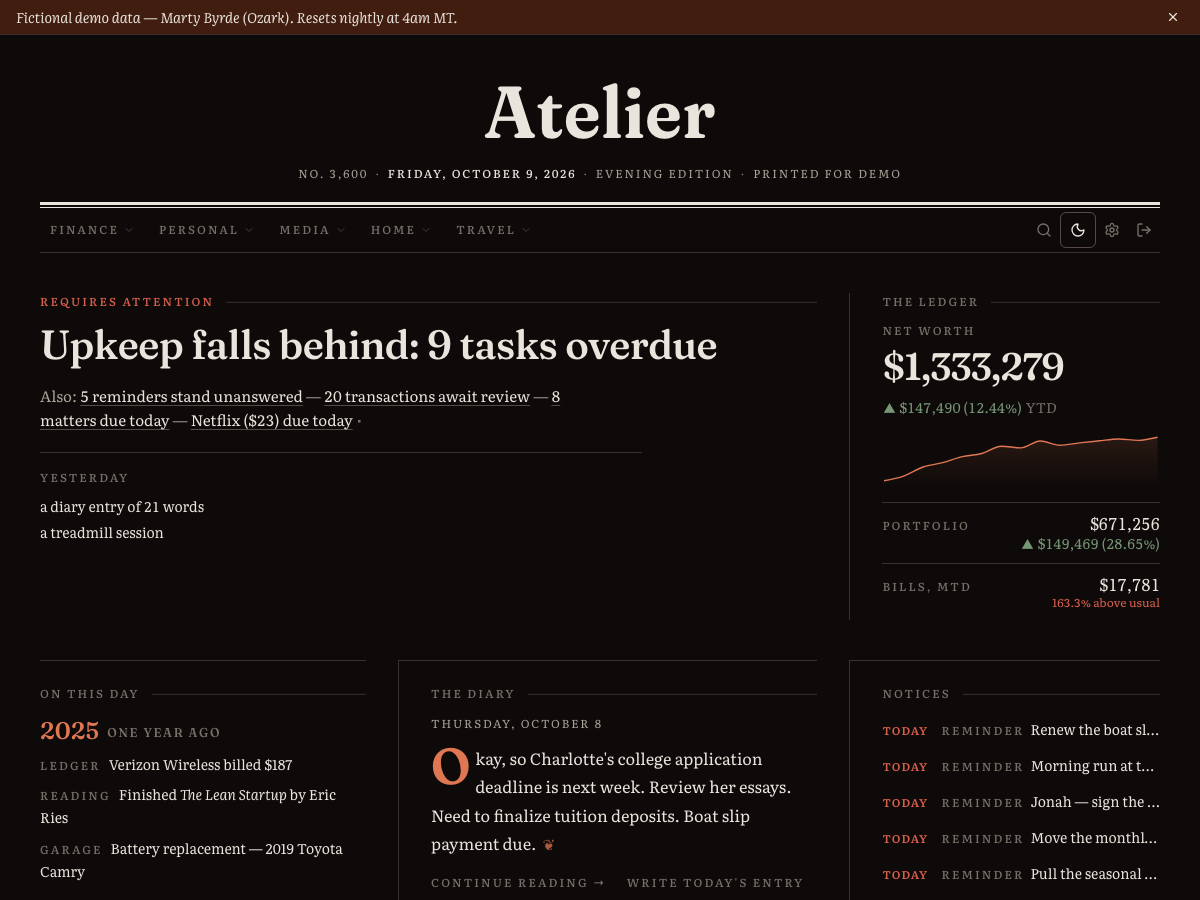
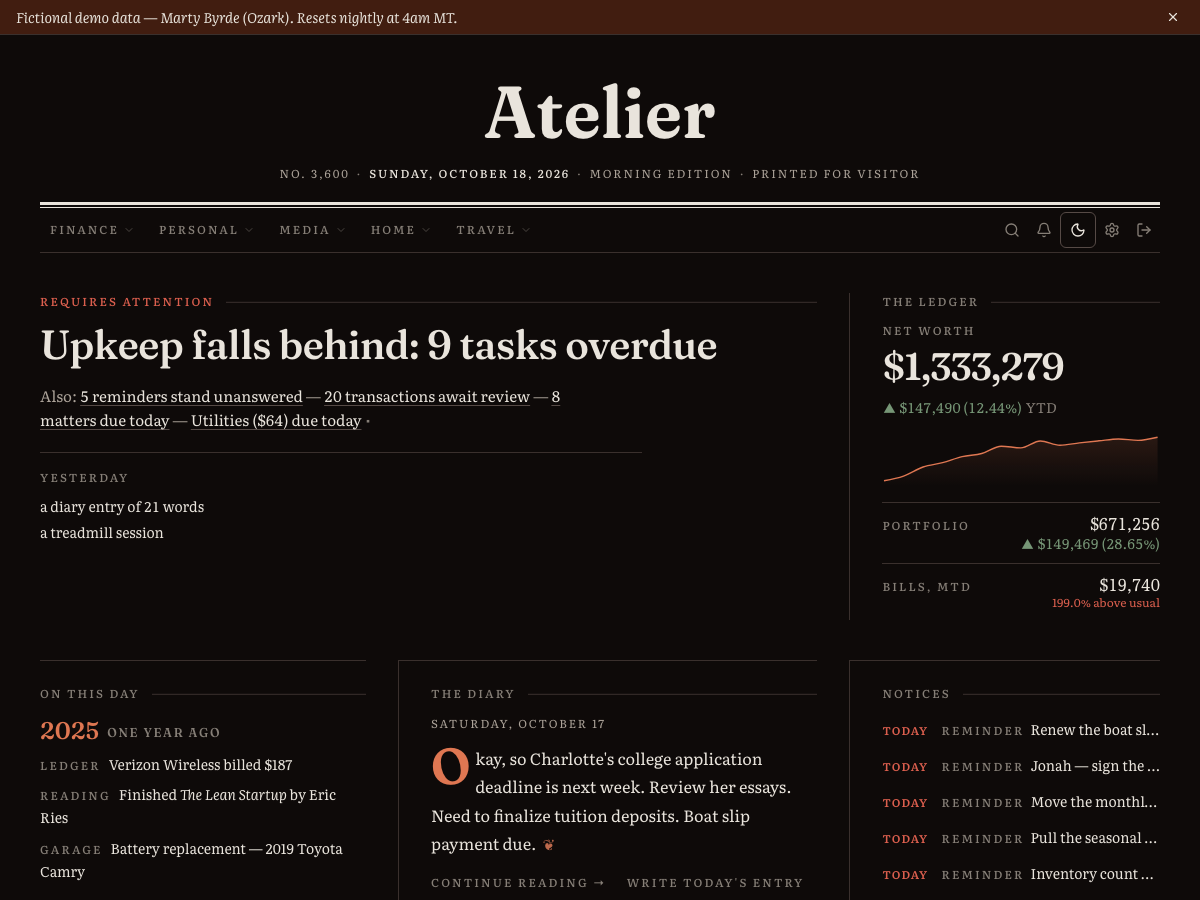
Atelier: households, module choice, bulletins and APNs push; fresh demo screenshots
Cron jobs 24 -> 28. Front page and travel Atlas recaptured from the demo stack.

diff --git a/README.md b/README.md
@@ -10,12 +10,14 @@ One self-hosted app in place of the commercial products I used for budgeting, jo
 
 *Demo instance, fictional data.*
 
-- **Stack:** FastAPI, React and TypeScript on Vite, PostgreSQL, and an Ofelia scheduler running 24 cron jobs, all under Docker Compose. Read-only endpoints use a SELECT-only database role. Auth is JWT in httpOnly cookies with a sliding refresh token.
-- **Modules (17):** accounts, transactions, portfolio, credit cards, bills, journal, todo, workouts, timeline, movies, TV, books, movie theater, maintenance, bar cart, coffee, travel log.
+- **Stack:** FastAPI, React and TypeScript on Vite, PostgreSQL, and an Ofelia scheduler running 28 cron jobs, all under Docker Compose. Read-only endpoints use a SELECT-only database role. Auth is JWT in httpOnly cookies with a sliding refresh token.
+- **Households:** one deployment serves several households, each opened by invitation. PostgreSQL row-level security keeps their rows apart, and each household's jobs run on its own clock. Owners invite members, connect their own outside services and switch agent desks on.
+- **Modules (17):** accounts, transactions, portfolio, credit cards, bills, journal, todo, workouts, timeline, movies, TV, books, movie theater, maintenance, bar cart, coffee, travel log. Each reader chooses which ones appear.
 - **Finance:** SimpleFIN bank data lands twice a day as raw payloads, moves through vendor-shaped staging tables into canonical accounts, balances, transactions and holdings, and is reconciled weekly. Categories come from fuzzy matching against the ledger; an LLM-assisted review audits each month, and its corrections ship as reviewed migrations.
 - **Agents:** seven LLM analysts run outside the app as headless Claude Code sessions, reading through per-agent MCP endpoints and writing through scoped database roles. They file a month-close cash-flow report, a weekly digest and card-renewal reviews. A SQL check, never the model, decides whether my phone is notified.
+- **Notifications:** an in-app bulletins panel and APNs push to the iOS app.
 - **Integrations:** 14 outside services, including SimpleFIN, TMDB, Google Books and the National Park Service API.
-- **iOS:** also installed on my phone as a thin Capacitor shell that loads the live web app over my private network, so frontend changes need no iOS rebuild.
+- **iOS:** a thin Capacitor shell on my phone that loads the live web app over my private network, so frontend changes need no iOS rebuild.
 
 <p>
   <img src="assets/atelier-section.png" alt="Travel section, Atlas tab, on desktop" width="71%">
